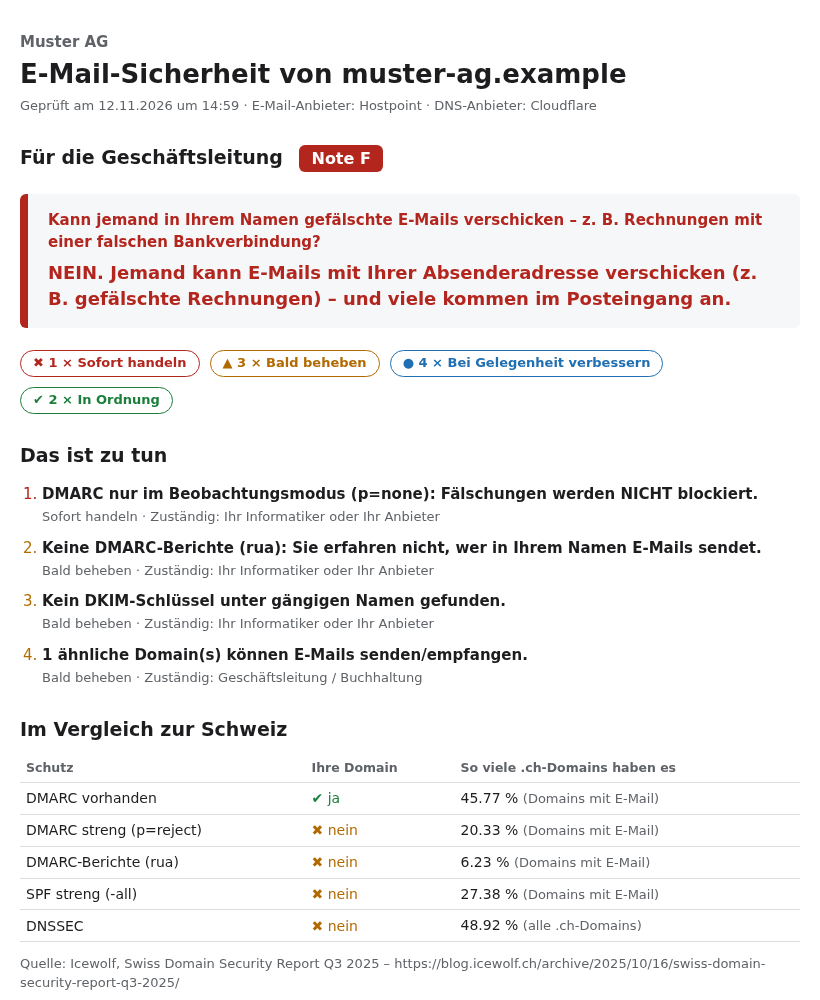
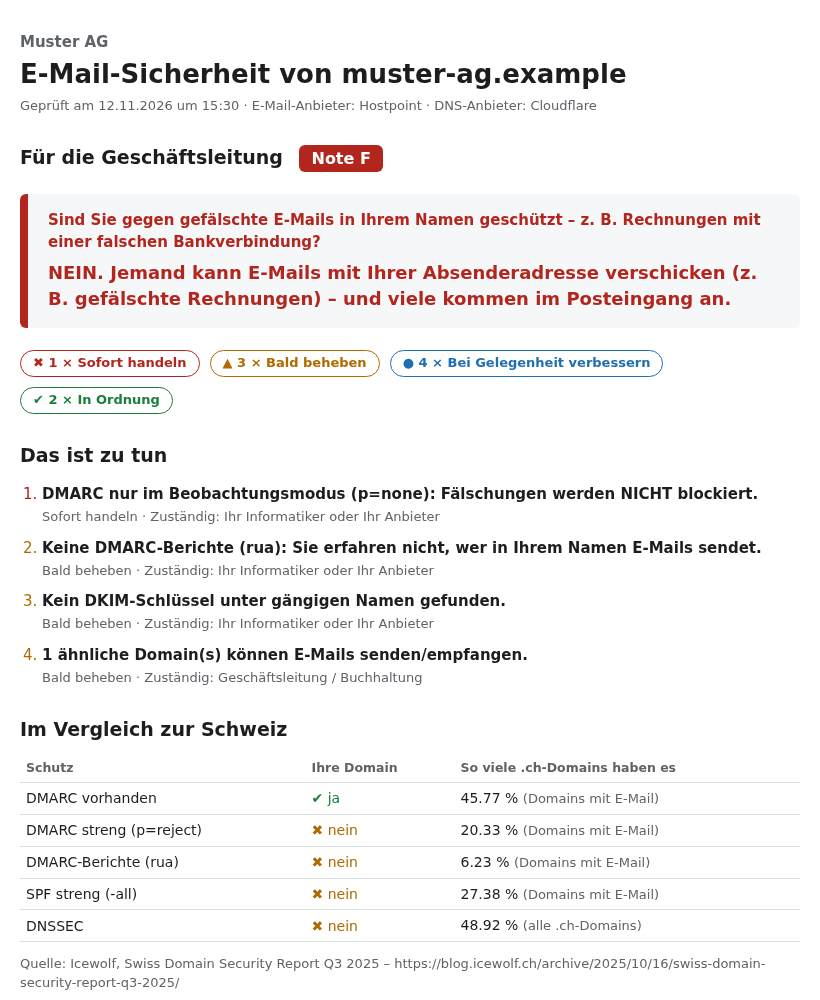
Bericht: Kernfrage passend zur Antwort formuliert, Code-Blöcke nur an Leerzeichen umbrechen
Die Frage «Kann jemand in Ihrem Namen gefälschte E-Mails verschicken?» widersprach
der Antwort «JA. Gefälschte E-Mails werden abgewiesen.» – neu: «Sind Sie gegen
gefälschte E-Mails in Ihrem Namen geschützt?». Einträge zum Kopieren brechen nicht
mehr mitten im Wort um (overflow-wrap:anywhere statt word-break:break-all).
Beispielbericht und Bild neu erzeugt.

Changed region(s): [[0.061, 0.217, 0.7012, 0.248], [0.7317, 0.217, 0.9146, 0.248]]

diff --git a/beispiel/muster-ag.html b/beispiel/muster-ag.html
@@ -42,7 +42,7 @@ table.vergleich th { font-size: 12.5px; color: var(--leise); }
 .befund .id { color:var(--leise); font-weight:400; font-size:12px; white-space:nowrap; }
 .befund .status { font-size:13px; font-weight:600; }
 pre { background:var(--flaeche); padding:8px 10px; border-radius:4px; white-space:pre-wrap;
-      word-break:break-all; font-size:12.5px; margin: 8px 0; color:var(--text); }
+      overflow-wrap:anywhere; font-size:12.5px; margin: 8px 0; color:var(--text); }
 .anleitung { background:#eef4fb; border-radius:4px; padding:8px 10px; margin-top:8px; color:var(--text); }
 .quelle { font-size:12px; color:var(--leise); word-break:break-all; }
 .kopfzeile { display:flex; justify-content:space-between; align-items:flex-start; gap:16px; }
@@ -58,13 +58,13 @@ footer { margin-top: 36px; border-top:1px solid var(--linie); padding-top: 10px;
 </style></head><body><main>
 <div class="kopfzeile"><div><div class="firma">Muster AG</div><h1><span class="domain">E-Mail-Sicherheit</span> von <span class="domain">muster-ag.example</span></h1></div>
 </div>
-<div class="meta">Geprüft am 12.11.2026 um 15:08 · E-Mail-Anbieter:
+<div class="meta">Geprüft am 12.11.2026 um 15:32 · E-Mail-Anbieter:
 Hostpoint · DNS-Anbieter:
 Cloudflare</div>
 
 <h2>Für die Geschäftsleitung <span class="note note-F" title="33/100 Punkte">Note F</span></h2>
 <div class="urteil kritisch">
-  <div class="frage">Kann jemand in Ihrem Namen gefälschte E-Mails verschicken – z. B. Rechnungen
+  <div class="frage">Sind Sie gegen gefälschte E-Mails in Ihrem Namen geschützt – z. B. Rechnungen
   mit einer falschen Bankverbindung?</div>
   <div class="antwort">NEIN. Jemand kann E-Mails mit Ihrer Absenderadresse verschicken (z. B. gefälschte Rechnungen) – und viele kommen im Posteingang an.</div>
 </div>

diff --git a/src/pruefstand/bericht_html.py b/src/pruefstand/bericht_html.py
@@ -72,7 +72,7 @@ table.vergleich th { font-size: 12.5px; color: var(--leise); }
 .befund .id { color:var(--leise); font-weight:400; font-size:12px; white-space:nowrap; }
 .befund .status { font-size:13px; font-weight:600; }
 pre { background:var(--flaeche); padding:8px 10px; border-radius:4px; white-space:pre-wrap;
-      word-break:break-all; font-size:12.5px; margin: 8px 0; color:var(--text); }
+      overflow-wrap:anywhere; font-size:12.5px; margin: 8px 0; color:var(--text); }
 .anleitung { background:#eef4fb; border-radius:4px; padding:8px 10px; margin-top:8px; color:var(--text); }
 .quelle { font-size:12px; color:var(--leise); word-break:break-all; }
 .kopfzeile { display:flex; justify-content:space-between; align-items:flex-start; gap:16px; }
@@ -152,7 +152,7 @@ def erzeuge(erg: Ergebnis, firma: str | None = None, absender: Absender | None =
 
 <h2>Für die Geschäftsleitung <span class="note note-{erg.note}" title="{erg.punkte}/100 Punkte">Note {erg.note}</span></h2>
 <div class="urteil {FARBE[status]}">
-  <div class="frage">Kann jemand in Ihrem Namen gefälschte E-Mails verschicken – z. B. Rechnungen
+  <div class="frage">Sind Sie gegen gefälschte E-Mails in Ihrem Namen geschützt – z. B. Rechnungen
   mit einer falschen Bankverbindung?</div>
   <div class="antwort">{escape(satz)}</div>
 </div>

diff --git a/README.md b/README.md
@@ -1,6 +1,6 @@
 # pruefstand
 
-**Kann jemand in Ihrem Namen gefälschte E-Mails verschicken – z. B. Rechnungen mit einer falschen Bankverbindung?**
+**Sind Sie gegen gefälschte E-Mails in Ihrem Namen geschützt – z. B. Rechnungen mit einer falschen Bankverbindung?**
 
 `pruefstand` prüft eine Domain **passiv** – nur über öffentliche DNS-Daten – und erstellt
 einen Bericht auf Deutsch: eine Seite für die Geschäftsleitung in einfacher Sprache,
